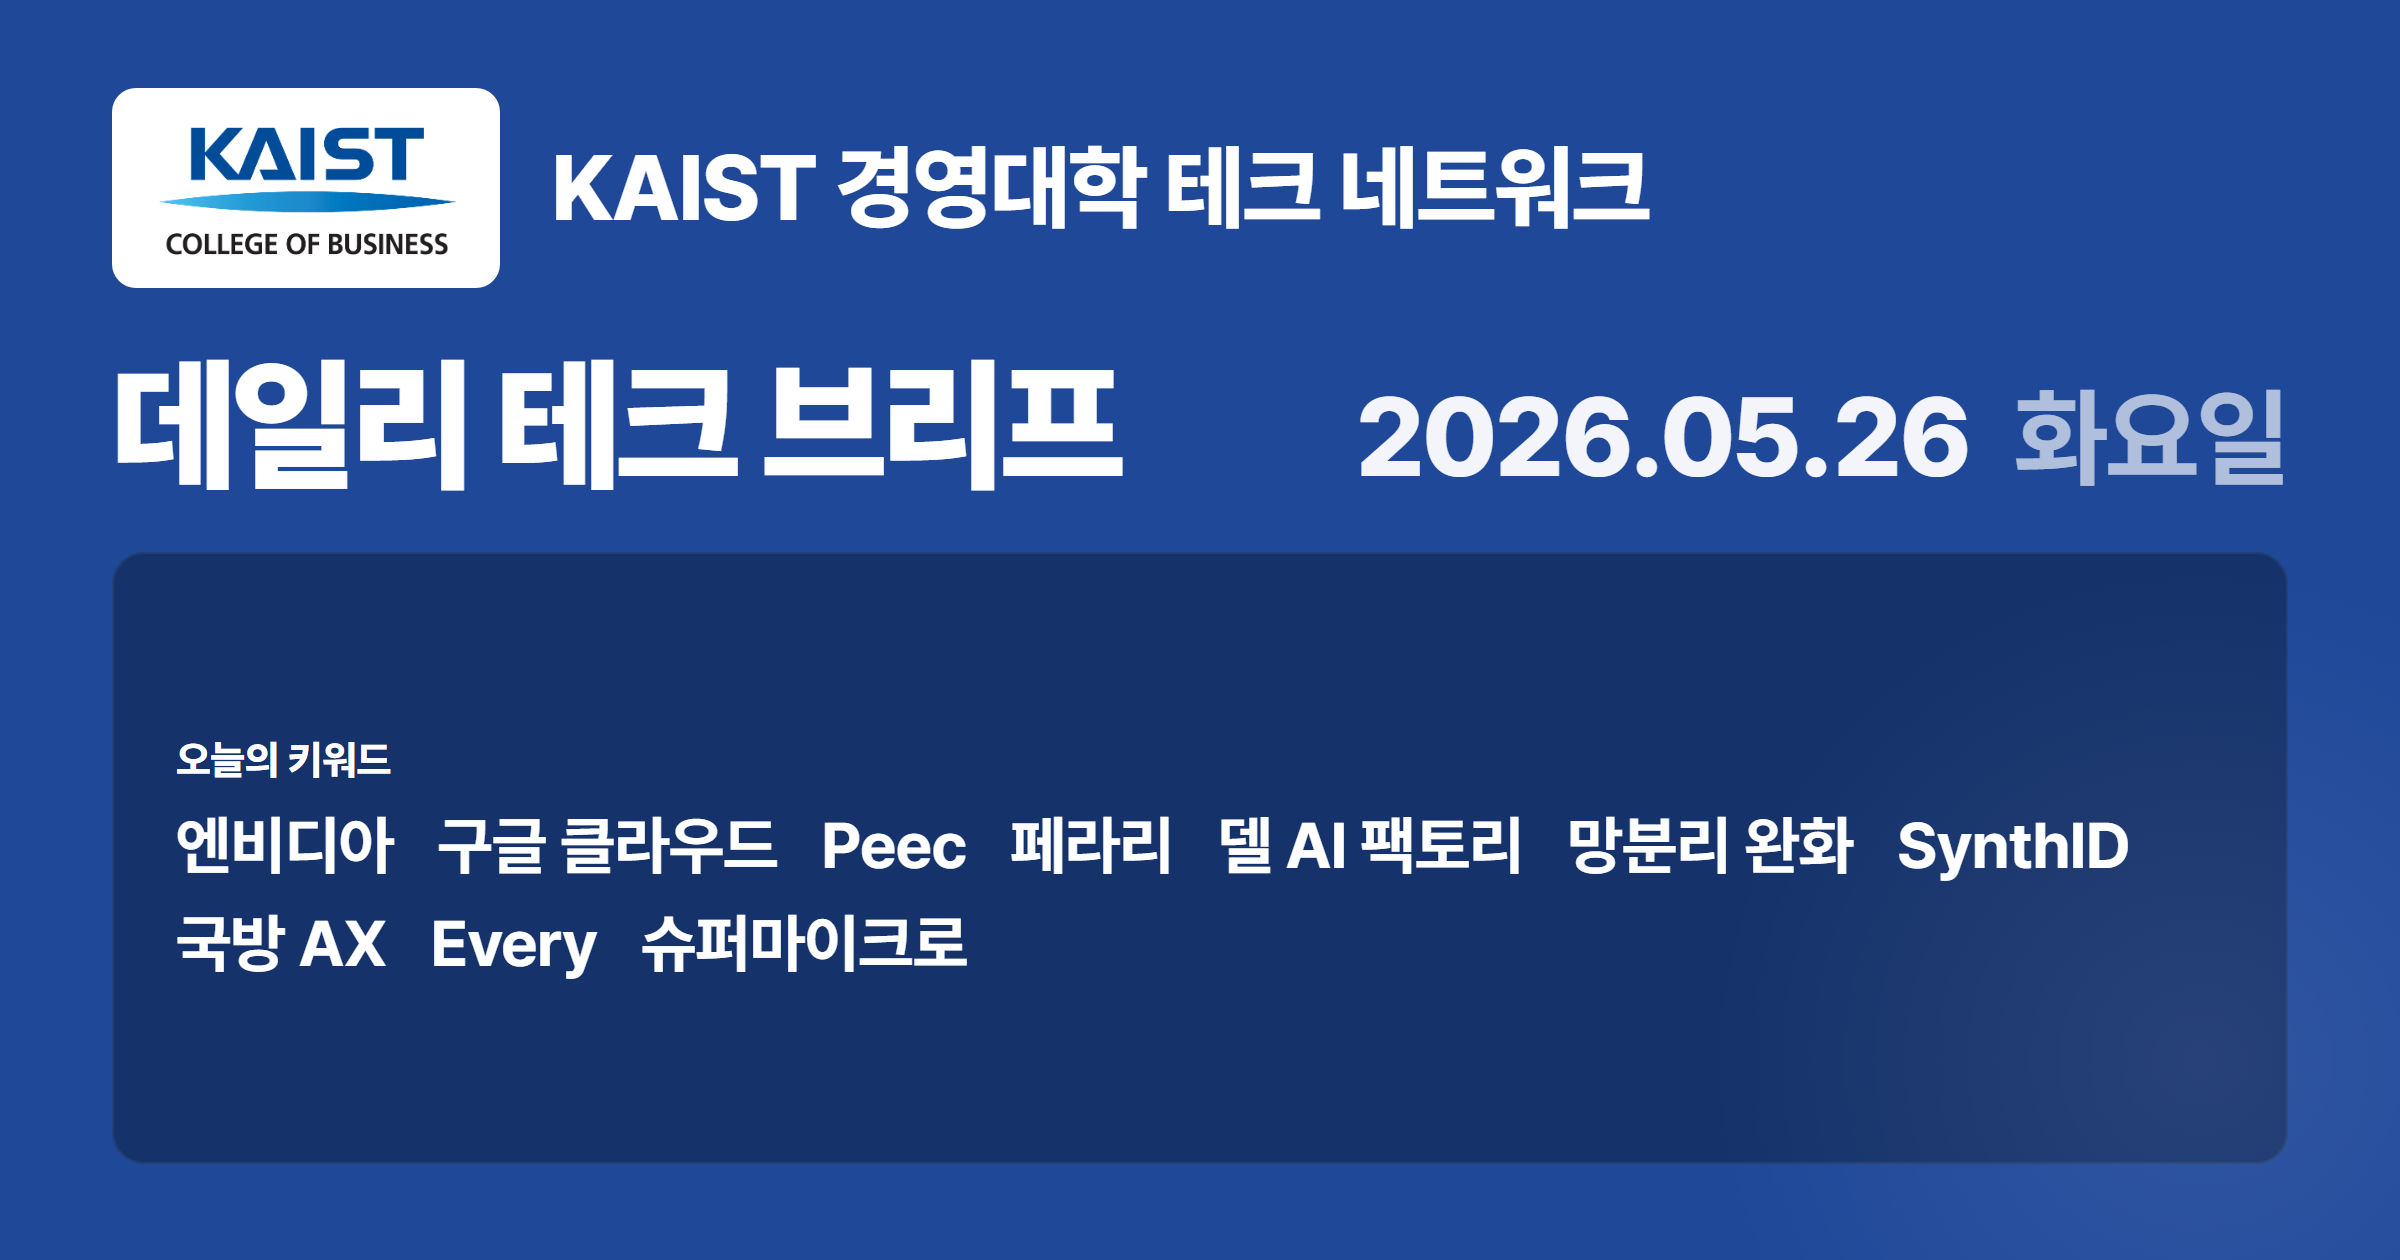
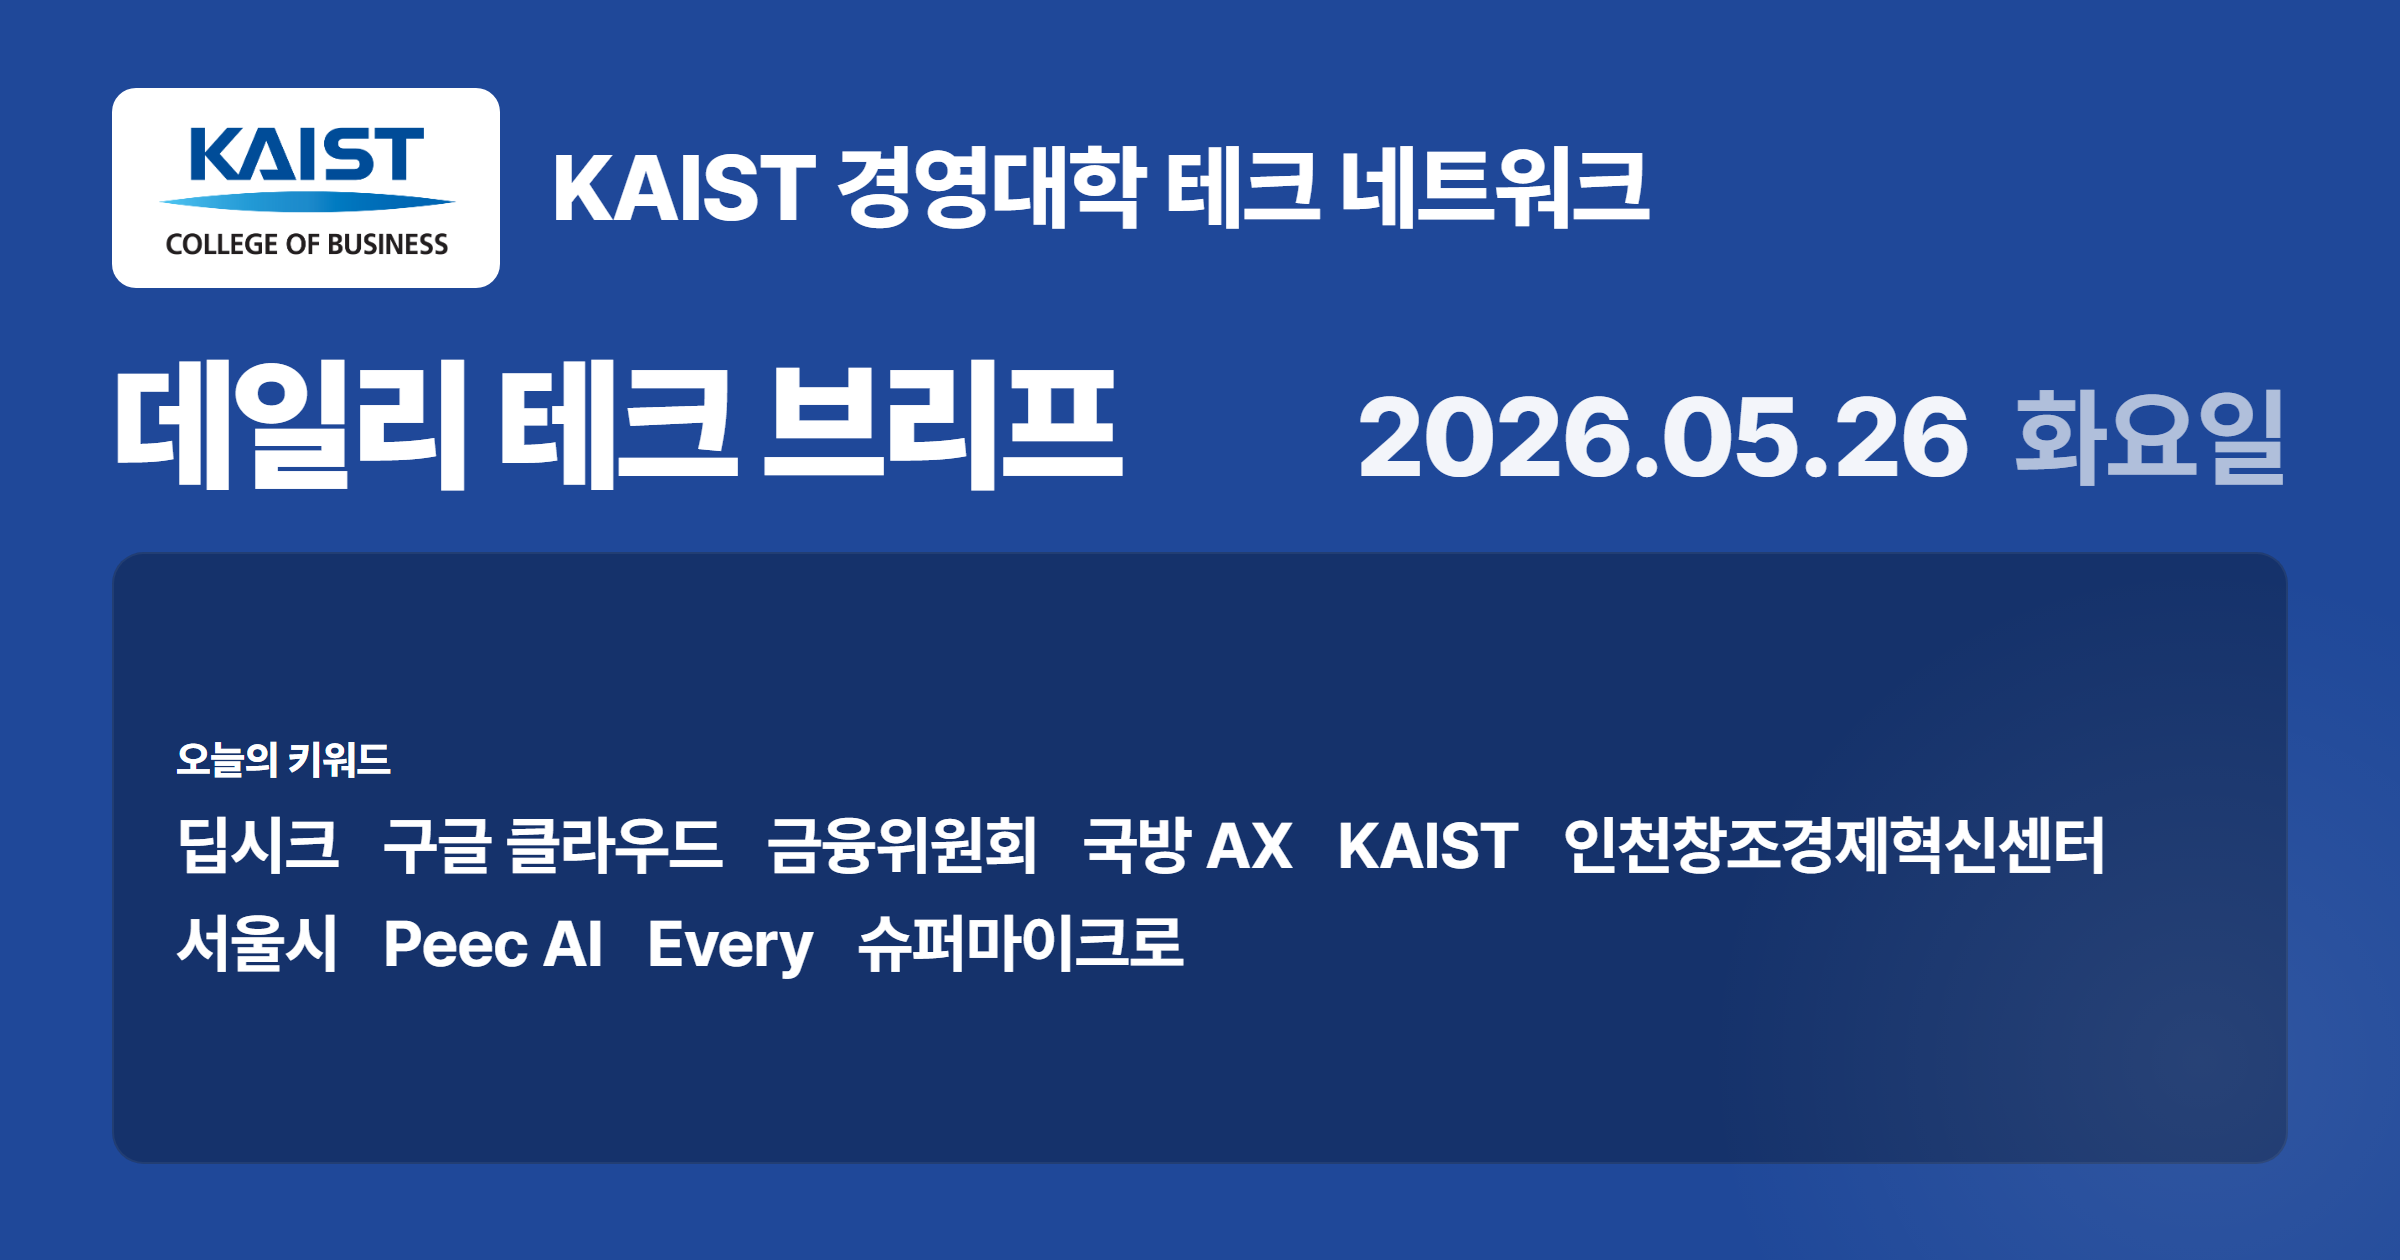
Refresh daily brief: 2026-05-26

Changed region(s): [[0.0625, 0.65, 0.9062, 0.7738]]

diff --git a/date/2026-05-26/index.html b/date/2026-05-26/index.html
@@ -7,7 +7,7 @@
 <title>데일리 테크 브리프 — 2026.05.26 화요일</title>
 <meta property="og:type" content="article">
 <meta property="og:title" content="데일리 테크 브리프 — 2026.05.26 화요일">
-<meta property="og:description" content="01 엔비디아, CPU 2천억달러 시장에 중국 포함 · 02 구글 클라우드, AI 보안 전환기 23분 허점 노출 · 03 Peec, ARR 1천만달러로 AI검색 마케팅 급부상">
+<meta property="og:description" content="01 딥시크 V4-프로, API 75% 할인 영구화 · 02 구글 클라우드, Gemini 키 23분 허점 · 03 금융위, 49개사 망분리 AI 규제 완화">
 <meta property="og:image" content="https://kaistbiztech.github.io/dailytechbrief/date/2026-05-26/og.png">
 <meta property="og:image:width" content="1080">
 <meta property="og:image:height" content="1920">
@@ -16,7 +16,7 @@
 <meta property="og:locale" content="ko_KR">
 <meta name="twitter:card" content="summary_large_image">
 <meta name="twitter:title" content="데일리 테크 브리프 — 2026.05.26 화요일">
-<meta name="twitter:description" content="01 엔비디아, CPU 2천억달러 시장에 중국 포함 · 02 구글 클라우드, AI 보안 전환기 23분 허점 노출 · 03 Peec, ARR 1천만달러로 AI검색 마케팅 급부상">
+<meta name="twitter:description" content="01 딥시크 V4-프로, API 75% 할인 영구화 · 02 구글 클라우드, Gemini 키 23분 허점 · 03 금융위, 49개사 망분리 AI 규제 완화">
 <meta name="twitter:image" content="https://kaistbiztech.github.io/dailytechbrief/date/2026-05-26/og.png">
 <script>
   /* BASE_PATH는 페이지 JS의 fallback이 location.pathname에서 도출 */

diff --git a/index.html b/index.html
@@ -7,7 +7,7 @@
 <title>데일리 테크 브리프 — 2026.05.26 화요일</title>
 <meta property="og:type" content="article">
 <meta property="og:title" content="데일리 테크 브리프 — 2026.05.26 화요일">
-<meta property="og:description" content="01 엔비디아, CPU 2천억달러 시장에 중국 포함 · 02 구글 클라우드, AI 보안 전환기 23분 허점 노출 · 03 Peec, ARR 1천만달러로 AI검색 마케팅 급부상">
+<meta property="og:description" content="01 딥시크 V4-프로, API 75% 할인 영구화 · 02 구글 클라우드, Gemini 키 23분 허점 · 03 금융위, 49개사 망분리 AI 규제 완화">
 <meta property="og:image" content="https://kaistbiztech.github.io/dailytechbrief/date/2026-05-26/og.png">
 <meta property="og:image:width" content="1080">
 <meta property="og:image:height" content="1920">
@@ -16,7 +16,7 @@
 <meta property="og:locale" content="ko_KR">
 <meta name="twitter:card" content="summary_large_image">
 <meta name="twitter:title" content="데일리 테크 브리프 — 2026.05.26 화요일">
-<meta name="twitter:description" content="01 엔비디아, CPU 2천억달러 시장에 중국 포함 · 02 구글 클라우드, AI 보안 전환기 23분 허점 노출 · 03 Peec, ARR 1천만달러로 AI검색 마케팅 급부상">
+<meta name="twitter:description" content="01 딥시크 V4-프로, API 75% 할인 영구화 · 02 구글 클라우드, Gemini 키 23분 허점 · 03 금융위, 49개사 망분리 AI 규제 완화">
 <meta name="twitter:image" content="https://kaistbiztech.github.io/dailytechbrief/date/2026-05-26/og.png">
 <script>
   /* BASE_PATH는 페이지 JS의 fallback이 location.pathname에서 도출 */
